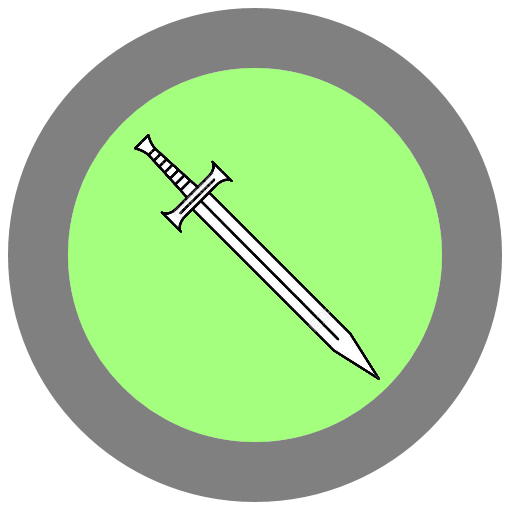
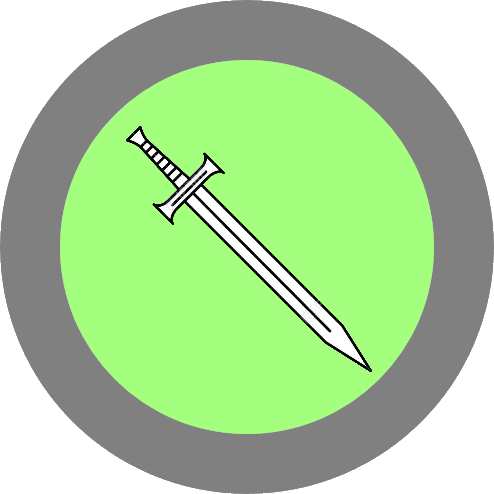
add button effect to buttons and resize actual button images

diff --git a/css/styles.css b/css/styles.css
@@ -23,11 +23,16 @@ li {
   text-align: center;
 }
 
-img:hover {
-  border: 10px solid black;
-  border-style: ridge groove groove ridge;
+img {
   border-radius: 256px;
-  box-shadow: 10px 20px 10px 10px rgba(56, 30, 0, 0.486);
+  box-shadow: 0px 9px #999;
+  background-color: #999;
+}
+
+img:active {
+  box-shadow: 0 5px #666;
+  transform: translateY(4px);
+  background-color: #666;
 }
 
 .gray {
